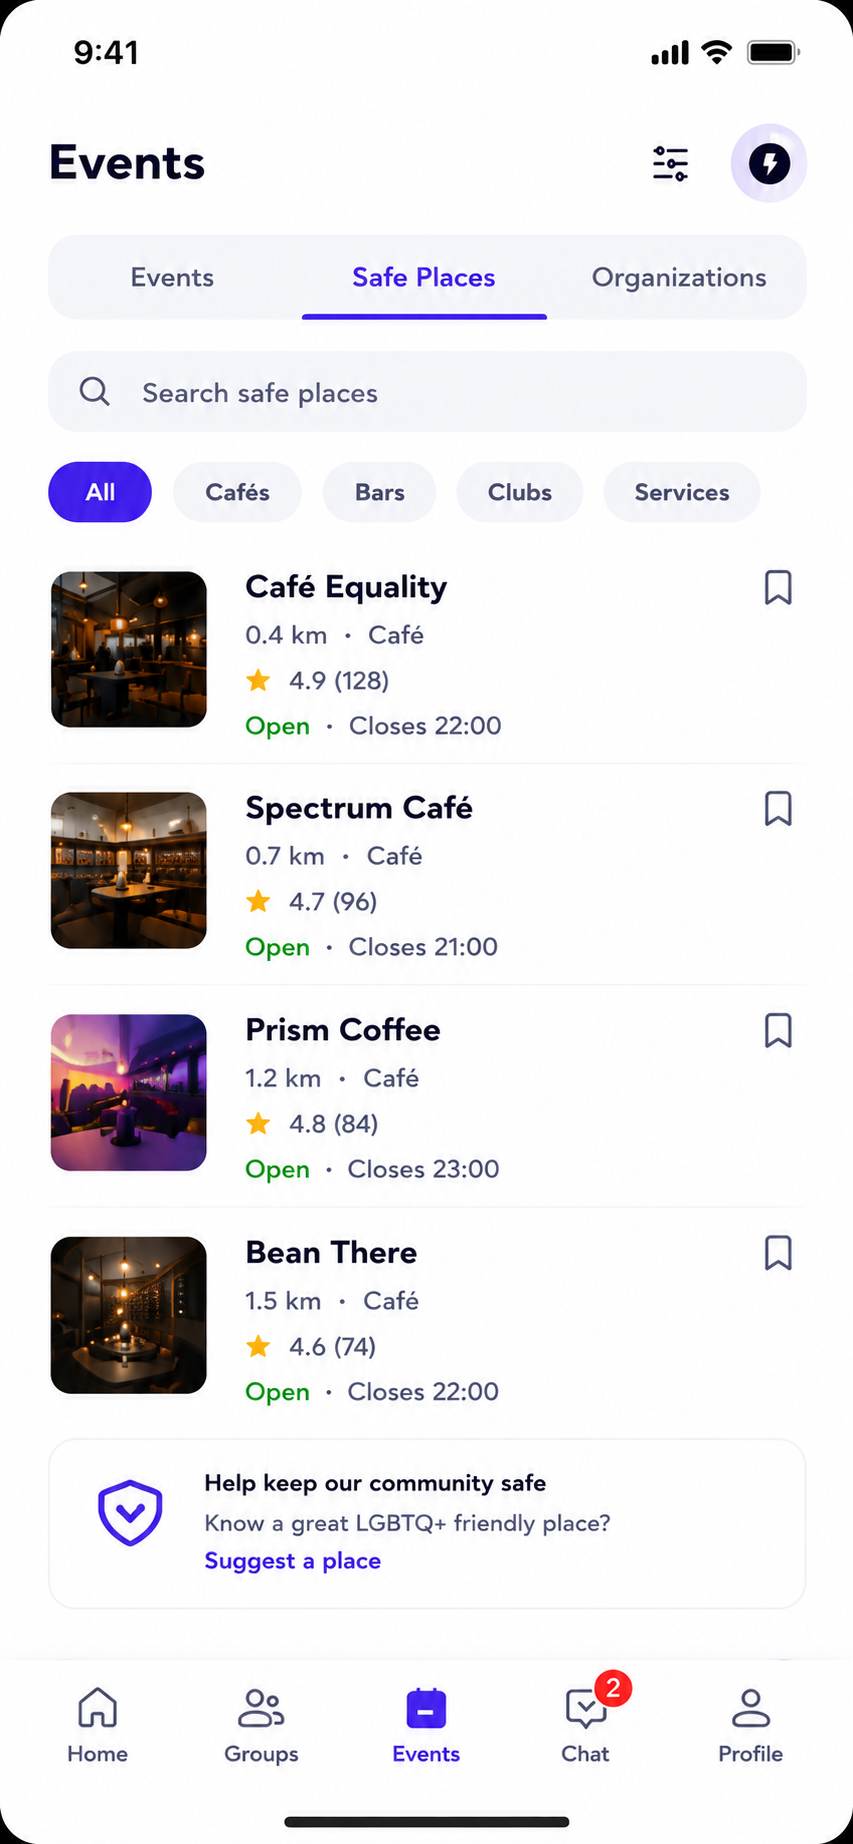
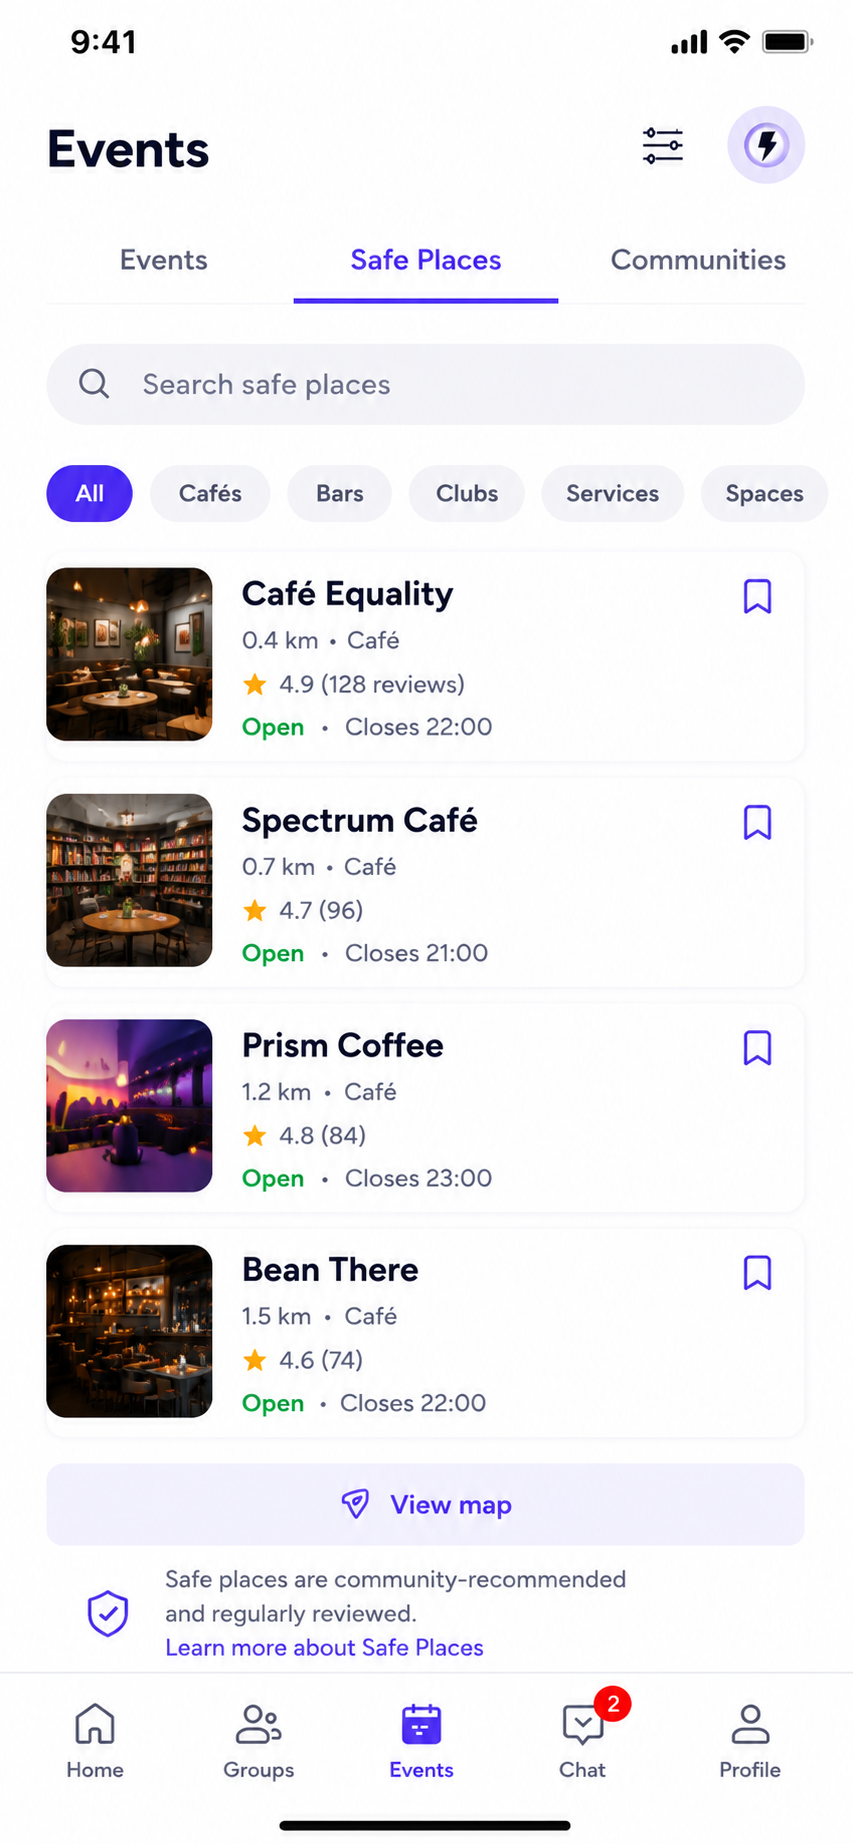
fix(safety): soft-deleted users unblockable/excluded + docs; add community mockups (Codex)
P2: soft-deleted/anonymised users are now treated as unavailable.
- blockUser target lookup requires users.deletedAt IS NULL → blocking a deleted
  user returns 404.
- listBlocks excludes soft-deleted users.
- Tests: blocking a soft-deleted user → 404; a blocked user who is later
  soft-deleted no longer appears in GET /blocks. (safety suite now 15/15.)

P3 docs:
- ROADMAP Sprint 3 mobile line: "block/mute UI" → "block UI (mute deferred)".
- STATUS top line updated to the implemented / awaiting-review state + date.

Assets: commit the recently-added community mockup PNGs (event-communities-screen,
event-communities-details-screen) and the safe-place mock reorg under assets/ so
they're tracked and available for the mobile slice (assets/ is gitignored;
force-added).

types/lint/prettier/diff-check clean; full integration green.

diff --git a/server/__tests__/safety.integration.test.ts b/server/__tests__/safety.integration.test.ts
@@ -157,6 +157,21 @@ describe("POST /api/v1/blocks", () => {
     expect(audits.filter((a) => a.action === "user.blocked")).toHaveLength(1);
   });
 
+  it("blocking a soft-deleted user → 404 (unavailable)", async () => {
+    const blocker = await seedUser();
+    const target = await seedUser();
+    await db
+      .update(users)
+      .set({ deletedAt: new Date() })
+      .where(eq(users.id, target));
+    mockUser = { id: blocker };
+
+    const res = await request(app)
+      .post("/api/v1/blocks")
+      .send({ blockedUserId: target });
+    expect(res.status).toBe(404);
+  });
+
   it("rate-limited → 429", async () => {
     const id = await seedUser();
     mockUser = { id };
@@ -181,6 +196,23 @@ describe("GET /api/v1/blocks", () => {
     expect(res.body[0].id).toBe(target);
     expect(res.body[0].displayName).toBe("Tester");
     expect(res.body[0].email).toBeUndefined();
+  });
+
+  it("excludes a blocked user who has since been soft-deleted", async () => {
+    const blocker = await seedUser();
+    const target = await seedUser();
+    mockUser = { id: blocker };
+    await request(app).post("/api/v1/blocks").send({ blockedUserId: target });
+
+    // Target gets erased/anonymised after being blocked.
+    await db
+      .update(users)
+      .set({ deletedAt: new Date() })
+      .where(eq(users.id, target));
+
+    const res = await request(app).get("/api/v1/blocks");
+    expect(res.status).toBe(200);
+    expect(res.body).toHaveLength(0);
   });
 });
 

diff --git a/server/storage.ts b/server/storage.ts
@@ -898,10 +898,11 @@ export class DatabaseStorage {
     blockedId: string,
     ipAddress?: string | null,
   ): Promise<"created" | "already" | "not_found"> {
+    // A soft-deleted / anonymised user is unavailable — not blockable (404).
     const [target] = await db
       .select({ id: users.id })
       .from(users)
-      .where(eq(users.id, blockedId))
+      .where(and(eq(users.id, blockedId), isNull(users.deletedAt)))
       .limit(1);
     if (!target) return "not_found";
 
@@ -948,6 +949,7 @@ export class DatabaseStorage {
   }
 
   // The users the caller has blocked, as PublicUser (never emails), newest first.
+  // Soft-deleted/anonymised users are excluded.
   async listBlocks(blockerId: string): Promise<PublicUser[]> {
     return db
       .select({
@@ -957,7 +959,7 @@ export class DatabaseStorage {
       })
       .from(blocks)
       .innerJoin(users, eq(users.id, blocks.blockedId))
-      .where(eq(blocks.blockerId, blockerId))
+      .where(and(eq(blocks.blockerId, blockerId), isNull(users.deletedAt)))
       .orderBy(desc(blocks.createdAt));
   }
 

diff --git a/docs/STATUS.md b/docs/STATUS.md
@@ -2,7 +2,7 @@
 
 > Living status board. **Update this whenever a piece of work lands** (merged PR) or a new branch starts. Pair with [docs/ROADMAP.md](ROADMAP.md) (the plan), [docs/API.md](API.md) (the contract), and `CLAUDE.md` (rules + issue tracker).
 
-_Last updated: 2026-06-11 — communities merged (#13); building `feat/block-reports` (Sprint 3 slice 2)._
+_Last updated: 2026-06-12 — `feat/block-reports` (Sprint 3 slice 2) implemented + Codex round-1 fixes; awaiting review before PR._
 
 ## Current phase
 
@@ -30,10 +30,10 @@ _Last updated: 2026-06-11 — communities merged (#13); building `feat/block-rep
 
 ## In progress
 
-- **`feat/block-reports`** — Sprint-3 **slice 2**: user-facing safety primitives. **Status: implemented; 13 backend integration tests green; types/lint/prettier clean. Awaiting Codex review before PR.**
-  - Endpoints (🔑, docs/API.md §12): `POST /api/v1/blocks` (`201` new / `200` already / `400` self-block / `404` unknown user; `blockUser` limiter), `DELETE /api/v1/blocks/:userId` (idempotent `200`), `GET /api/v1/blocks` (`PublicUser[]`), `POST /api/v1/reports` (thin queue insert, generic `201`; `reportUser` limiter).
-  - **Block only — mute deferred** (no mute schema/model; DPIA-gated). Block is one-directional. Self-block prevented; block/unblock idempotent. Audited `user.blocked` / `user.unblocked` / `report.submitted` (report audit references the **report record, not the free-text reason** — privacy-safe). Reports are submit-only here; moderation actions are admin/Sprint-4.
-  - Storage-owned (`blockUser`/`unblockUser`/`listBlocks`/`submitReport`); no route-side DB access. New `blockUser` rate limiter.
+- **`feat/block-reports`** — Sprint-3 **slice 2**: user-facing safety primitives. **Status: implemented + Codex round-1 fixes; 15 backend integration tests green; types/lint/prettier clean. Awaiting review before PR.**
+  - Endpoints (🔑, docs/API.md §12): `POST /api/v1/blocks` (`201` new / `200` already / `400` self-block / `404` unknown **or soft-deleted** user; `blockUser` limiter), `DELETE /api/v1/blocks/:userId` (idempotent `200`), `GET /api/v1/blocks` (`PublicUser[]`, excludes soft-deleted), `POST /api/v1/reports` (thin queue insert, generic `201`; `reportUser` limiter).
+  - **Block only — mute deferred** (no mute schema/model; DPIA-gated). Block is one-directional. Self-block prevented; **soft-deleted users are unavailable** (not blockable, excluded from list); block/unblock idempotent. Audited `user.blocked` / `user.unblocked` / `report.submitted` (report audit references the **report record, not the free-text reason** — privacy-safe). Reports are submit-only here; moderation actions are admin/Sprint-4.
+  - Storage-owned (`blockUser`/`unblockUser`/`listBlocks`/`submitReport`); no route-side DB access. New `blockUser` rate limiter. (This branch also commits the recently-added community mockup PNGs under `assets/` so they're tracked for the mobile slice.)
 - **Next Sprint-3 slices:** mobile (`feat/communities-mobile`, against the new mockups) + admin (communities CRUD + reports queue read).
 - **Backlog (Codex):** "Deactivate account" = a **reversible pause** (not GDPR erasure) — parked in [ROADMAP](ROADMAP.md) **Sprint 4**.
 

diff --git a/docs/ROADMAP.md b/docs/ROADMAP.md
@@ -107,7 +107,7 @@ All EU-region, **regions are irreversible at creation** (TRANSFER §3.1):
 ## Sprint 3 — Communities + membership + block/mute (≈ Jul 7 – 18)
 
 - **Backend (👨💻):** 🧪 communities `create/browse/get/join/leave`, `community_memberships` (member/moderator/admin roles), **block** endpoints (build now — retrofitting touches every content query, TRANSFER §5.3), generic `POST /api/reports`. **Note:** only **block** ships in v1 — **mute is deferred** (no mute schema/model; adding one is a DPIA-gated schema change). The earlier "block/mute" wording is block-only until/unless mute is scoped post-DPIA.
-- **Mobile (👨💻):** community browse / detail / create / join-leave screens; block/mute UI.
+- **Mobile (👨💻):** community browse / detail / create / join-leave screens; block UI (mute deferred — no model, DPIA-gated).
 - **Admin (👨💻):** communities CRUD; reports queue (read).
 - **Design:** chat + events mockups.
 - **Blocker:** community-join rate limit (`checkCommunityJoinRateLimit`) wired.